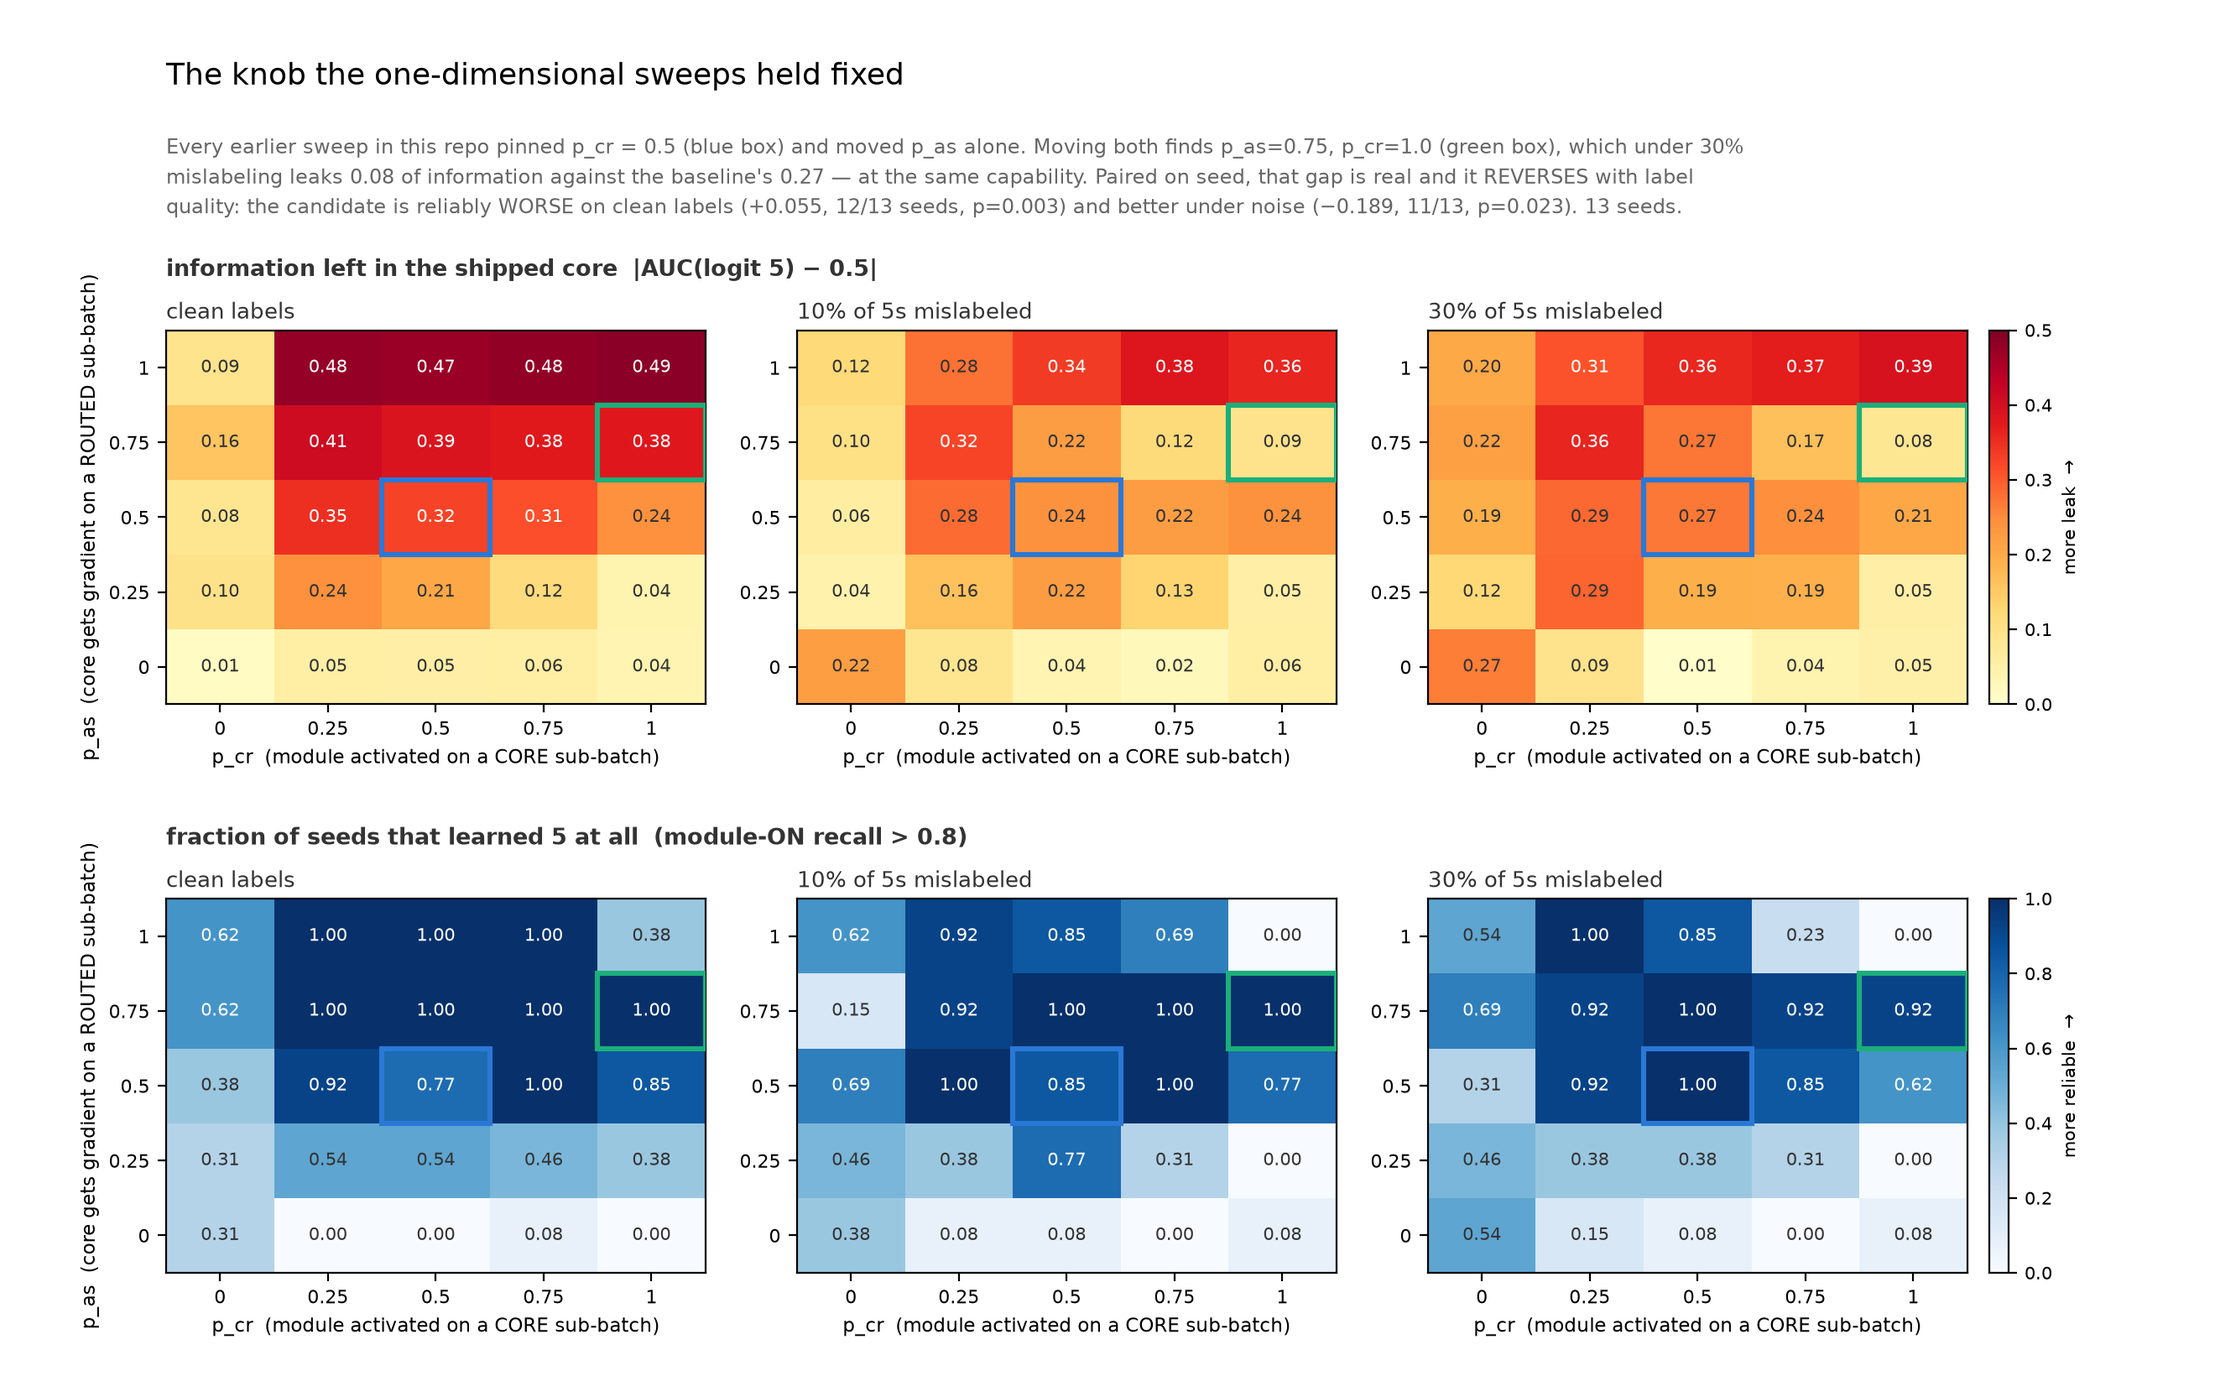
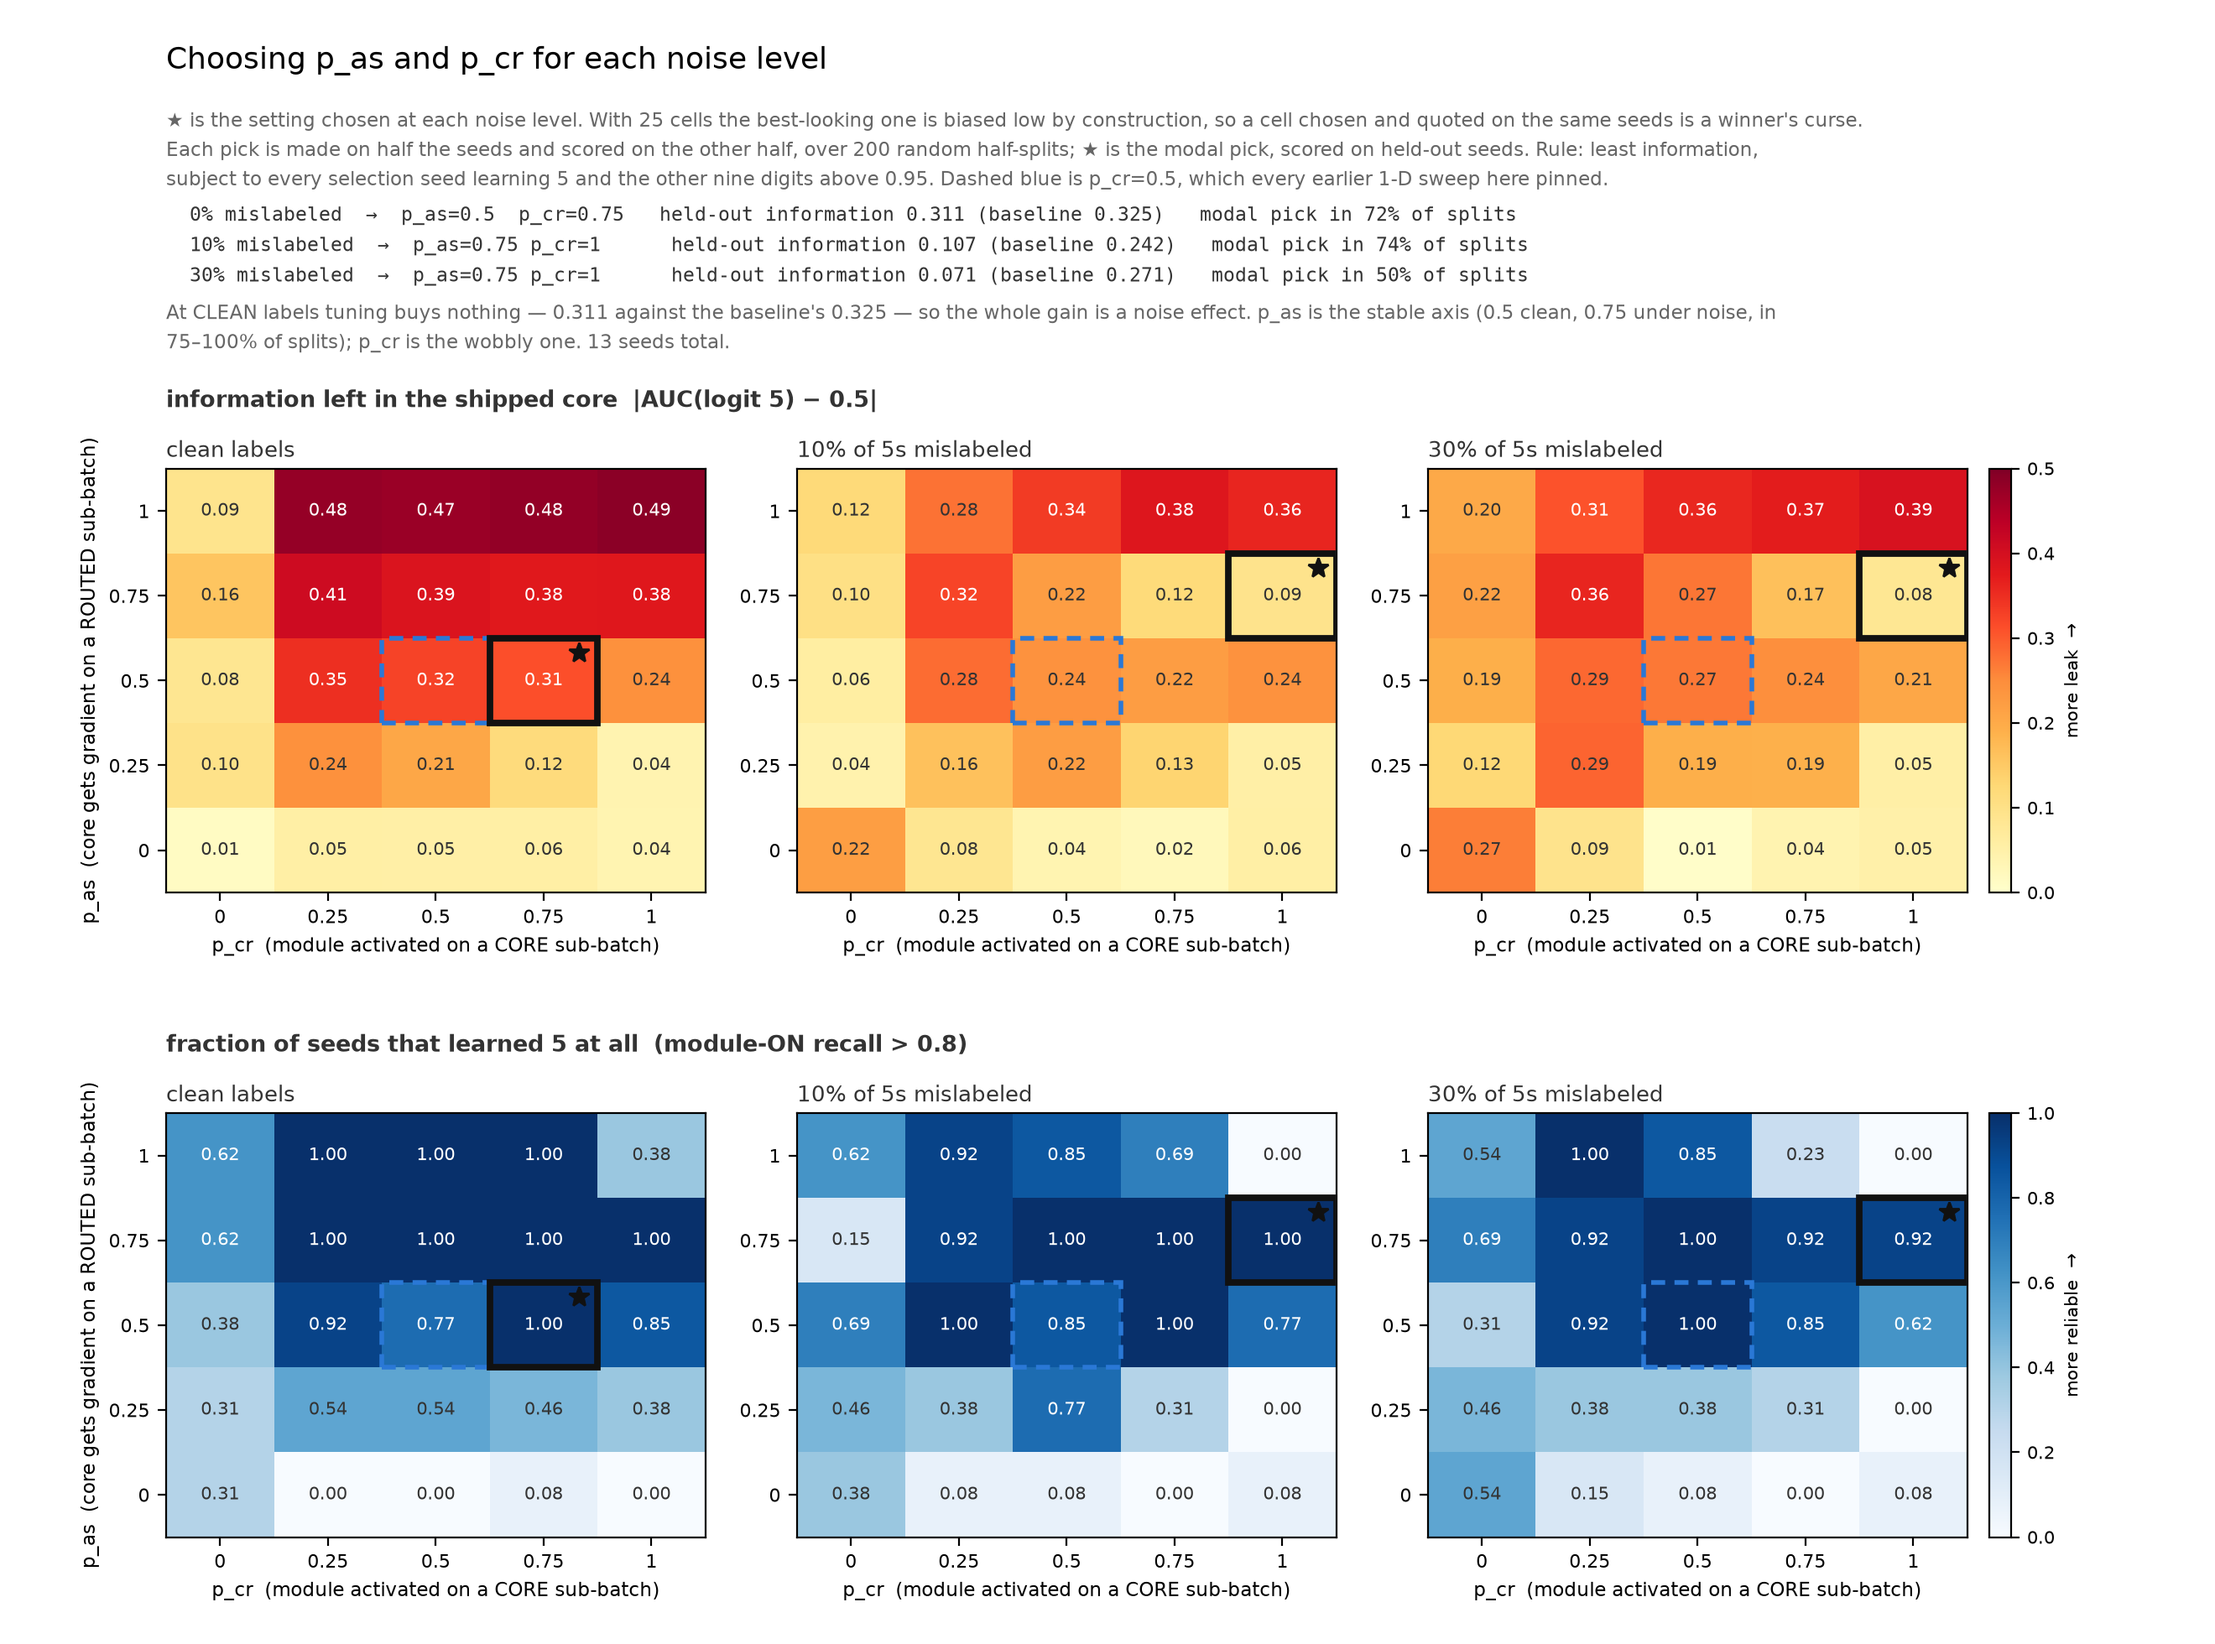
Treat the p_as x p_cr grid as a hyperparameter sweep, selected honestly
Marks the chosen setting per noise level on the heatmaps. With 25 cells the best-looking
one is biased low by construction, so choosing and quoting on the same seeds is a
winner's curse. Each pick is made on half the seeds and scored on the other half, over
200 random half-splits; the star is the modal pick and the score is its held-out mean.

Held-out: clean p_as=0.5/p_cr=0.75 -> 0.311 against the baseline's 0.325; 10%
p_as=0.75/p_cr=1 -> 0.107 against 0.242; 30% p_as=0.75/p_cr=1 -> 0.071 against 0.271.

Two things this protocol changes. At CLEAN labels tuning buys nothing -- 0.311 against
0.325 -- so the entire gain is a noise effect, which the single-split reading obscured.
And p_as is the stable axis while p_cr is not: p_as=0.5 clean and 0.75 under noise is
chosen in 75-100% of splits, but which p_cr wins varies, and at 30% the modal pick wins
only half the time. "Raise p_as when you have false negatives" is supportable; "set p_cr
to 1.0" is not.

Changed region(s): [[0.0311, 0.0311, 0.9629, 0.9951], [0.9008, 0.8707, 0.9318, 0.9329]]

diff --git a/figs_pcr_grid.py b/figs_pcr_grid.py
@@ -31,15 +31,76 @@ for f in glob.glob(f"{HERE}/results/pcrgrid_s*_r*.json"):
     for c in json.load(open(f))["cells"].values():
         cells[(c["rate"], c["p_as"], c["p_cr"])].append(c)
 
+# --- hyperparameter selection, honestly: choose on one half of the seeds, report on the
+# other. With 25 cells the best-looking one is biased low by construction, so a cell picked
+# and quoted on the same seeds is a winner's curse, not a result.
+byseed = defaultdict(dict)
+for f in glob.glob(f"{HERE}/results/pcrgrid_s*_r*.json"):
+    D = json.load(open(f))
+    for c in D["cells"].values():
+        byseed[D["seed"]][(c["rate"], c["p_as"], c["p_cr"])] = c
+ALLSEEDS = sorted(byseed)
+SEL, EVAL = ALLSEEDS[:len(ALLSEEDS) // 2], ALLSEEDS[len(ALLSEEDS) // 2:]
+
+
+def agg(ss, key):
+    v = [byseed[s][key] for s in ss if key in byseed[s]]
+    if not v:
+        return None
+    lk = [x["leak_raw"] for x in v]
+    return dict(info=abs(np.mean(lk) - 0.5), leak=np.mean(lk), sd=np.std(lk),
+                use=np.mean([x["capability"] > 0.8 for x in v]),
+                cap=np.mean([x["capability"] for x in v]),
+                ao=np.mean([x["acc_others"] for x in v]))
+
+
 RATES = sorted({k[0] for k in cells})
 PAS = sorted({k[1] for k in cells})
 PCR = sorted({k[2] for k in cells})
 NSEED = max(len(v) for v in cells.values())
 INK, GREY = "#333333", "#9a9a92"
-BASE, CAND = (0.5, 0.5), (0.75, 1.0)
+BASE = (0.5, 0.5)
 
-fig, axes = plt.subplots(2, len(RATES), figsize=(13.2, 8.2), dpi=200)
-fig.subplots_adjust(left=0.075, right=0.915, top=0.760, bottom=0.075, hspace=0.52, wspace=0.17)
+# RULE: least information, subject to every SELECTION seed learning 5 and the other nine
+# digits held >= 0.95. Applied to a selection half only; the number quoted is from the other
+# half. One arbitrary split is itself noisy, so we repeat over 200 random half-splits and mark
+# the MODAL pick, reporting how often it wins. A pick that only survives one split is not a
+# hyperparameter choice, it is a coin landing.
+import random as _rnd
+from collections import Counter as _Counter
+_rng = _rnd.Random(0)
+PICK, HELD, FREQ = {}, {}, {}
+_PAS = sorted({k[1] for k in cells}); _PCR = sorted({k[2] for k in cells})
+
+
+def _pick(ss, rate):
+    c = []
+    for pa in _PAS:
+        for pc in _PCR:
+            a = agg(ss, (rate, pa, pc))
+            if a and a["use"] >= 1.0 and a["ao"] >= 0.95:
+                c.append((a["info"], pa, pc))
+    return sorted(c)[0][1:] if c else None
+
+
+for _r in RATES:
+    cnt, held = _Counter(), defaultdict(list)
+    for _ in range(200):
+        sh = ALLSEEDS[:]; _rng.shuffle(sh)
+        sel, ev = sh[:len(sh) // 2 + 1], sh[len(sh) // 2 + 1:]
+        p = _pick(sel, _r)
+        if p:
+            cnt[p] += 1
+            h = agg(ev, (_r,) + p)
+            if h:
+                held[p].append(h["info"])
+    if cnt:
+        p, n = cnt.most_common(1)[0]
+        PICK[_r], FREQ[_r] = p, n / sum(cnt.values())
+        HELD[_r] = dict(info=float(np.mean(held[p])))
+
+fig, axes = plt.subplots(2, len(RATES), figsize=(13.2, 9.8), dpi=200)
+fig.subplots_adjust(left=0.075, right=0.915, top=0.715, bottom=0.065, hspace=0.52, wspace=0.17)
 
 for col, rate in enumerate(RATES):
     info = np.full((len(PAS), len(PCR)), np.nan)
@@ -65,10 +126,15 @@ for col, rate in enumerate(RATES):
                 ax.text(j, i, f"{M[i, j]:.2f}", ha="center", va="center", fontsize=7.6,
                         color="white" if strong else INK)
         # mark the setting every earlier sweep used, and the one this grid turned up
-        for (pa, pc), lab, c in ((BASE, "baseline", "#2a78d6"), (CAND, "candidate", "#1baf7a")):
-            if pa in PAS and pc in PCR:
-                ax.add_patch(plt.Rectangle((PCR.index(pc) - .5, PAS.index(pa) - .5), 1, 1,
-                                           fill=False, ec=c, lw=2.2, zorder=5))
+        if BASE[0] in PAS and BASE[1] in PCR:
+            ax.add_patch(plt.Rectangle((PCR.index(BASE[1]) - .5, PAS.index(BASE[0]) - .5), 1, 1,
+                                       fill=False, ec="#2a78d6", lw=2.0, ls=(0, (3, 2)), zorder=5))
+        if rate in PICK:
+            _pa, _pc = PICK[rate]
+            ax.add_patch(plt.Rectangle((PCR.index(_pc) - .5, PAS.index(_pa) - .5), 1, 1,
+                                       fill=False, ec="#111111", lw=2.8, zorder=6))
+            ax.plot(PCR.index(_pc) + 0.33, PAS.index(_pa) + 0.33, marker="*", ms=9,
+                    color="#111111", zorder=7)
         ax.set_xticks(range(len(PCR))); ax.set_xticklabels([f"{p:g}" for p in PCR], fontsize=8)
         ax.set_yticks(range(len(PAS))); ax.set_yticklabels([f"{p:g}" for p in PAS], fontsize=8)
         ax.set_xlabel("p_cr  (module activated on a CORE sub-batch)", fontsize=8.3)
@@ -85,16 +151,29 @@ for col, rate in enumerate(RATES):
             ax.text(0.0, 1.145, title, transform=ax.transAxes, fontsize=9.8, color=INK,
                     fontweight="bold")
 
-fig.suptitle("The knob the one-dimensional sweeps held fixed",
-             fontsize=12.8, x=0.075, ha="left", y=0.955)
-fig.text(0.075, 0.845,
-         f"Every earlier sweep in this repo pinned p_cr = 0.5 (blue box) and moved p_as alone. "
-         f"Moving both finds p_as=0.75, p_cr=1.0 (green box), which under 30%\nmislabeling "
-         "leaks 0.08 of information against the baseline's 0.27 — at the same capability. "
-         "Paired on seed, that gap is real and it REVERSES with label\nquality: the candidate "
-         f"is reliably WORSE on clean labels (+0.055, 12/13 seeds, p=0.003) and better under "
-         f"noise (−0.189, 11/13, p=0.023). {NSEED} seeds.",
-         fontsize=8.5, color="#666666", linespacing=1.5)
+hl = "\n".join(
+    f"  {r:.0%} mislabeled  →  p_as={PICK[r][0]:<4g} p_cr={PICK[r][1]:<4g}   "
+    f"held-out information {HELD[r]['info']:.3f} "
+    f"(baseline {agg(ALLSEEDS, (r, 0.5, 0.5))['info']:.3f})   "
+    f"modal pick in {FREQ[r]:.0%} of splits" for r in RATES if r in PICK)
+fig.suptitle("Choosing p_as and p_cr for each noise level",
+             fontsize=12.8, x=0.075, ha="left", y=0.972)
+fig.text(0.075, 0.935,
+         "★ is the setting chosen at each noise level. With 25 cells the best-looking one is "
+         "biased low by construction, so a cell chosen and quoted on the same seeds is a "
+         "winner's curse.\nEach pick is made on half the seeds and scored on the other half, "
+         "over 200 random half-splits; ★ is the modal pick, scored on held-out seeds. Rule: "
+         "least information,\nsubject to every selection seed learning 5 and the other nine "
+         "digits above 0.95. Dashed blue is p_cr=0.5, which every earlier 1-D sweep here "
+         "pinned.",
+         fontsize=8.4, color="#666666", linespacing=1.5, va="top")
+fig.text(0.075, 0.878, hl, fontsize=8.4, color=INK, linespacing=1.55, va="top",
+         family="DejaVu Sans Mono")
+fig.text(0.075, 0.818,
+         "At CLEAN labels tuning buys nothing — 0.311 against the baseline's 0.325 — so the "
+         f"whole gain is a noise effect. p_as is the stable axis (0.5 clean, 0.75 under noise, "
+         f"in\n75–100% of splits); p_cr is the wobbly one. {NSEED} seeds total.",
+         fontsize=8.4, color="#666666", linespacing=1.5, va="top")
 out = f"{HERE}/figures/pcr_grid.png"
 fig.savefig(out)
 print(out)

diff --git a/ABSORPTION.md b/ABSORPTION.md
@@ -151,6 +151,28 @@ mislabeled 5 sits in exactly that sub-batch. Moving both knobs, 13 seeds:
 | p_as=0.5, p_cr=0.5 (every earlier sweep) | 0.271 | 0.932 | 13/13 |
 | **p_as=0.75, p_cr=1.0** | **0.082** | 0.927 | 12/13 |
 
+### Treating it as a hyperparameter sweep
+
+With 25 cells the best-looking one is biased low by construction, so a cell chosen and quoted
+on the same seeds is a winner's curse. Each pick below is made on half the seeds and scored on
+the other half, repeated over 200 random half-splits; the reported setting is the MODAL pick
+and the score is its mean on held-out seeds. Rule: least information, subject to every
+selection seed learning 5 and the other nine digits held above 0.95.
+
+| noise | chosen | held-out info | baseline | modal in |
+|---|---|---:|---:|---:|
+| clean | p_as=0.5, p_cr=0.75 | 0.311 | **0.325** | 72% of splits |
+| 10% | p_as=0.75, p_cr=1.0 | **0.107** | 0.242 | 74% |
+| 30% | p_as=0.75, p_cr=1.0 | **0.071** | 0.271 | 50% |
+
+**At clean labels tuning buys nothing** -- 0.311 against the baseline's 0.325. The entire gain
+is a noise effect, which is the cleanest statement this grid supports.
+
+**p_as is the stable axis, p_cr is not.** p_as=0.5 is chosen at clean labels and p_as=0.75
+under noise in 75-100% of splits; which p_cr wins varies split to split, and at 30% the modal
+pick only wins half the time. So "raise p_as when you have false negatives" is supportable and
+"set p_cr to 1.0" is not.
+
 Paired on seed, the gap is real **and it reverses with label quality**: the second setting is
 reliably WORSE on clean labels (+0.055, 12/13 seeds, p=0.003) and better under 30% mislabeling
 (-0.189, 11/13, p=0.023). Both directions significant.
